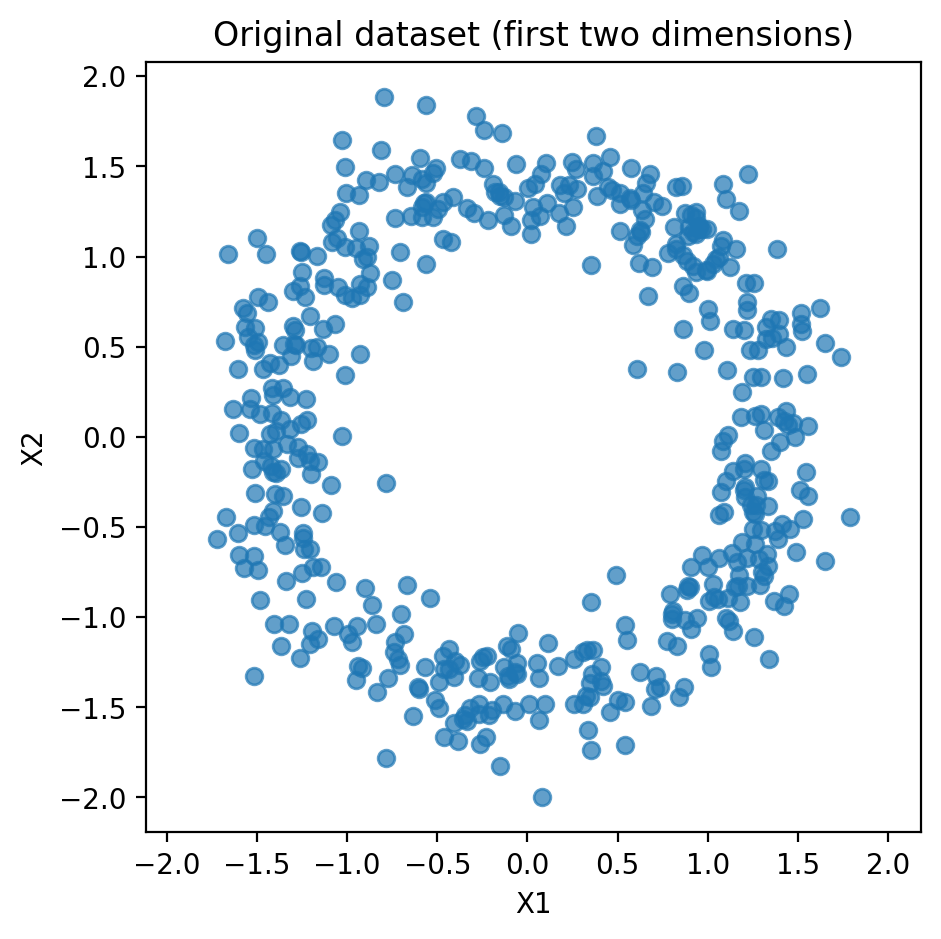
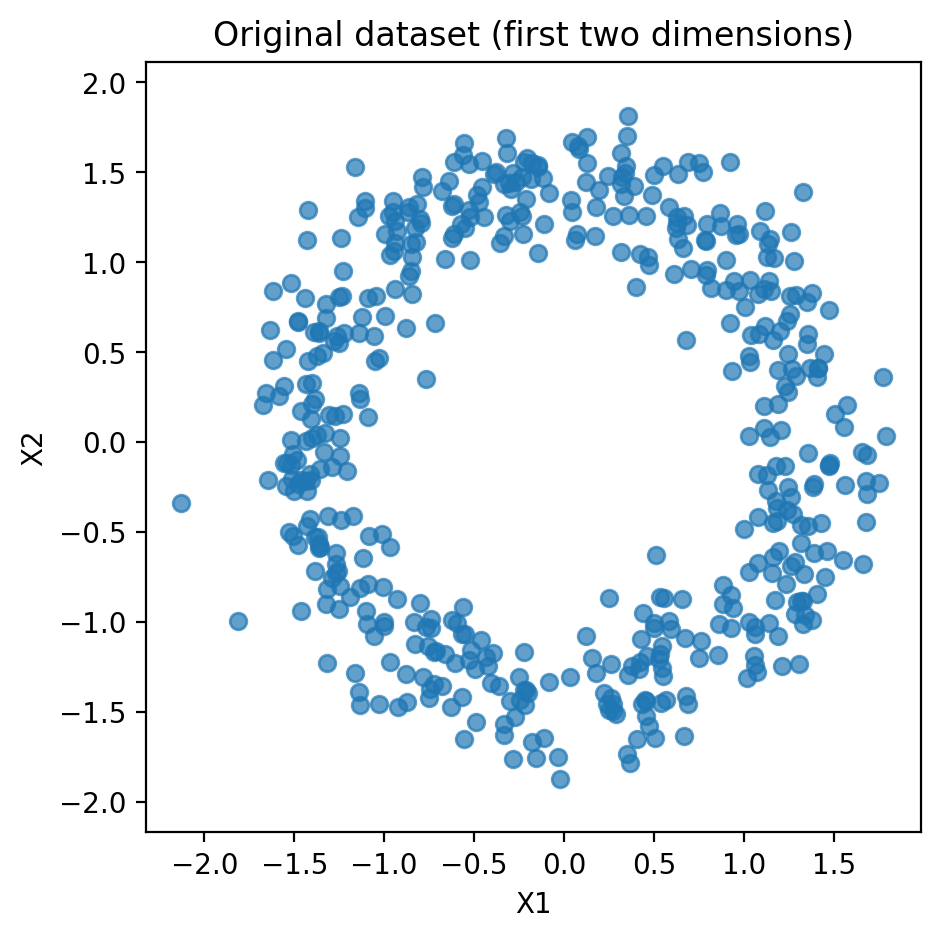
Update circle example

diff --git a/examples/circle.py b/examples/circle.py
@@ -1,6 +1,7 @@
 import numpy as np
 import matplotlib.pyplot as plt
 from sklearn.decomposition import PCA
+from sklearn.preprocessing import StandardScaler
 from icspylab import ICS, cov, tcov
 
 
@@ -46,8 +47,10 @@ plt.savefig("../docs/_static/circle_og.png", dpi=200, bbox_inches="tight")
 plt.close()
 
 # PCA
+scaler = StandardScaler().set_output(transform="pandas")
+X_scaled = scaler.fit_transform(X)
 pca = PCA(n_components=2)
-X_pca = pca.fit_transform(X)
+X_pca = pca.fit_transform(X_scaled)
 
 # Plot PCA projection
 plt.figure(figsize=(5, 5))
@@ -60,12 +63,12 @@ plt.savefig("../docs/_static/circle_pca.png", dpi=200, bbox_inches="tight")
 plt.close()
 
 # ICS
-ics = ICS(S1=tcov, S2=cov, algorithm='standard')
-ics.fit_transform(X)
+ics = ICS(S1="tcov", S2="cov", algorithm="standard")
+X_ics = ics.fit_transform(X)
 
 # Plot ICS projection
 plt.figure(figsize=(5, 5))
-plt.scatter(ics.scores_[:, 0], ics.scores_[:, 1], alpha=0.7)
+plt.scatter(X_ics[:, 0], X_ics[:, 1], alpha=0.7)
 plt.title("ICS projection of the simulated dataset \n(first two components, TCOV–COV scatter pair)")
 plt.xlabel("Invariant component 1")
 plt.ylabel("Invariant component 2")

diff --git a/docs/examples/circle.md b/docs/examples/circle.md
@@ -12,6 +12,7 @@ coordinates, variance σ² on the first two components and 1 + σ² on the other
 import numpy as np
 import matplotlib.pyplot as plt
 from sklearn.decomposition import PCA
+from sklearn.preprocessing import StandardScaler
 from icspylab import ICS, cov, tcov
 ```
 
@@ -71,8 +72,10 @@ figure below.
 
 ```python
 # PCA
+scaler = StandardScaler().set_output(transform="pandas")
+X_scaled = scaler.fit_transform(X)
 pca = PCA(n_components=2)
-X_pca = pca.fit_transform(X)
+X_pca = pca.fit_transform(X_scaled)
 
 # Plot PCA projection
 plt.figure(figsize=(5, 5))
@@ -95,12 +98,12 @@ in the first two components.
 
 ```python
 # ICS
-ics = ICS(S1=tcov, S2=cov, algorithm='standard')
-ics.fit_transform(X)
+ics = ICS(S1="tcov", S2="cov", algorithm="standard")
+X_ics = ics.fit_transform(X)
 
 # Plot ICS projection
 plt.figure(figsize=(5, 5))
-plt.scatter(ics.scores_[:, 0], ics.scores_[:, 1], alpha=0.7)
+plt.scatter(X_ics[:, 0], X_ics[:, 1], alpha=0.7)
 plt.title("ICS projection of the simulated dataset \n(first two components, TCOV–COV scatter pair)")
 plt.xlabel("Invariant component 1")
 plt.ylabel("Invariant component 2")